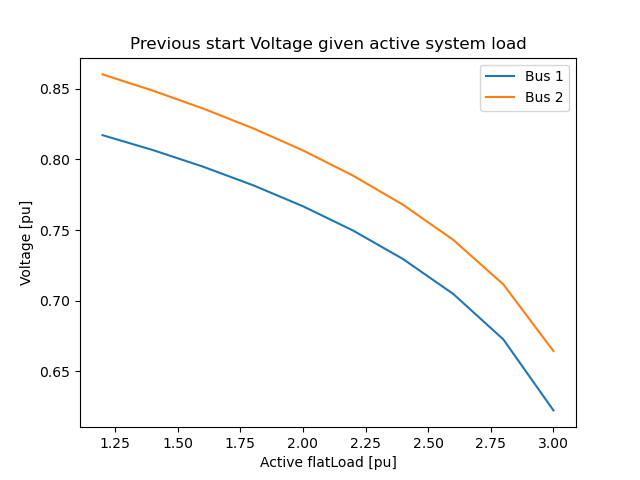
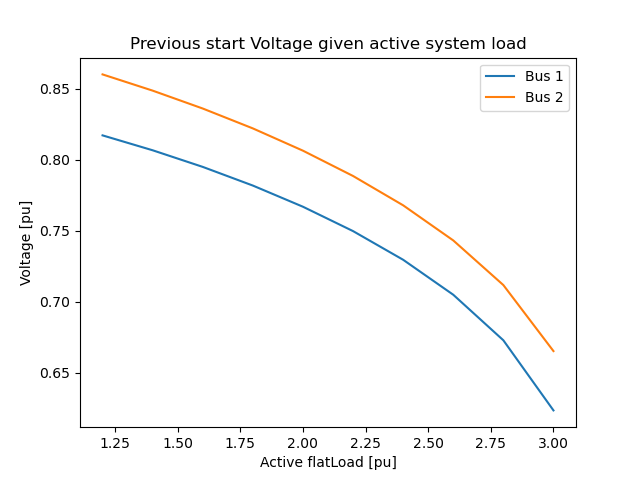
Reduce stop criteria to see diffrence between convergence whith diffrent start values

diff --git a/NewtonRapson/settings.py b/NewtonRapson/settings.py
@@ -1,7 +1,7 @@
 # Do not let Task2 or Task3 be true if you set Task1 to be true
-Task1 = False
+Task1 = True
 
-Task2 = True
-Task3 = True
+Task2 = 0
+Task3 = 0
 
-#Plots and results can be saved by manually aborting the program at the last line in main.py by using the debugger.
+#Plots and results can be saved by manually aborting the program at the last line in main1.py by using the debugger.

diff --git a/NewtonRapson/main1.py b/NewtonRapson/main1.py
@@ -59,7 +59,7 @@ V = np.array([v0, v1, v2])
 D = np.array([d0, d1, d2])
 
 slackbus = 2
-allowedMissmatch = 1e-5
+allowedMissmatch = 1e-3
 buses = newtonRapson(lines, X, PQsch, P, Q, V, D, Pnr, Qnr, slackbus, allowedMissmatch,True)
 
 # I assume we are to plot the voltage as a function of active power demand as that's whats changing
